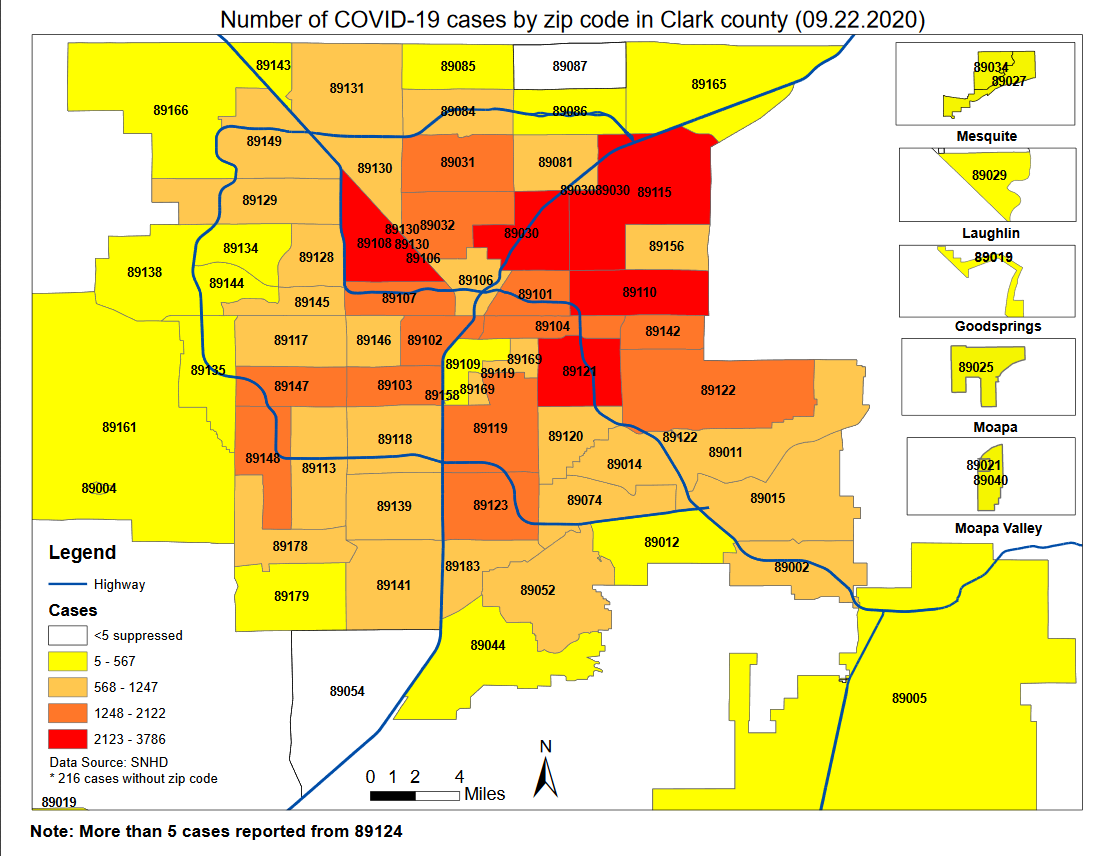
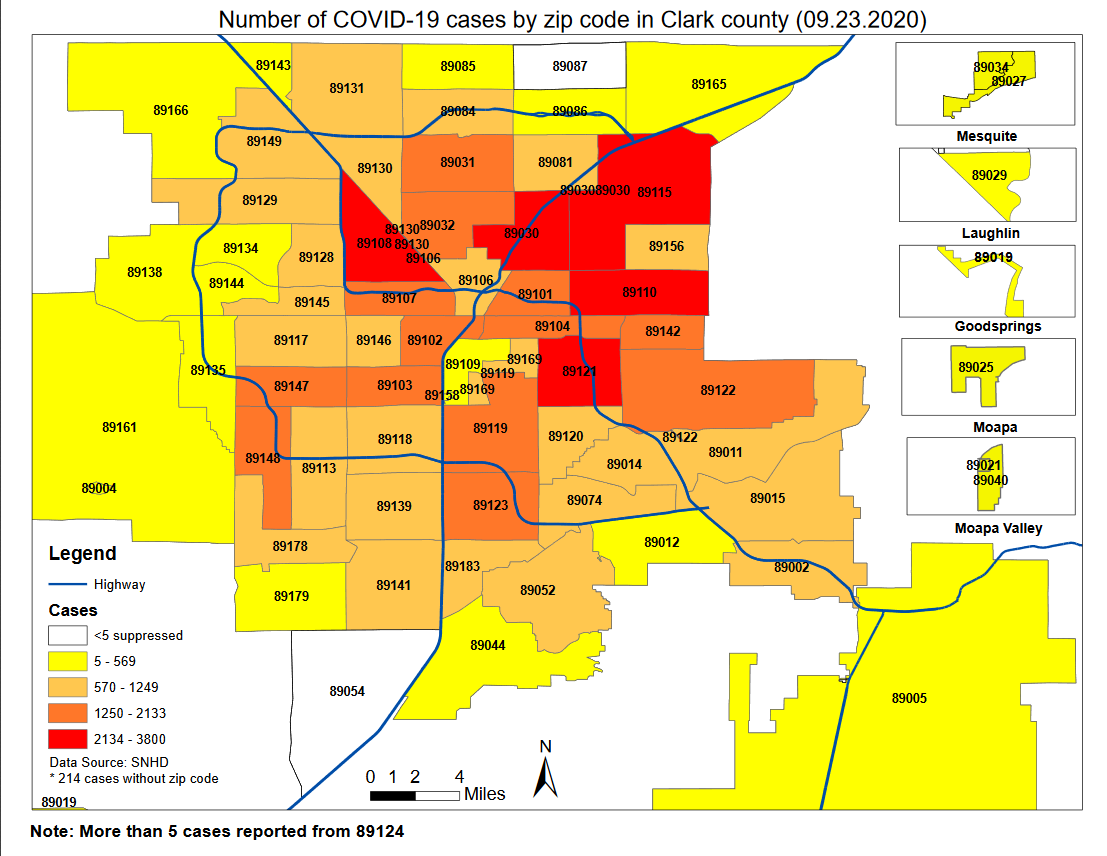
Day 204

diff --git a/src/pages/clarkcounty.js b/src/pages/clarkcounty.js
@@ -220,6 +220,7 @@ class ClarkPage extends Component {
 				'9/20/20',
 				'9/21/20',
 				'9/22/20',
+				'9/23/20',
 			],
 			datasets: [
 				{
@@ -429,6 +430,7 @@ class ClarkPage extends Component {
 						64288,
 						64470,
 						64895,
+						65174,
 					],
 				},
 			],
@@ -639,6 +641,7 @@ class ClarkPage extends Component {
 				'9/20/20',
 				'9/21/20',
 				'9/22/20',
+				'9/23/20',
 			],
 			datasets: [
 				{
@@ -848,6 +851,7 @@ class ClarkPage extends Component {
 						128,
 						182,
 						425,
+						279,
 					],
 				},
 			],
@@ -1038,6 +1042,7 @@ class ClarkPage extends Component {
 				'9/20/20',
 				'9/21/20',
 				'9/22/20',
+				'9/23/20',
 			],
 			datasets: [
 				{
@@ -1227,6 +1232,7 @@ class ClarkPage extends Component {
 						5934,
 						6018,
 						6071,
+						6125,
 					],
 				},
 			],
@@ -1416,6 +1422,7 @@ class ClarkPage extends Component {
 				'9/20/20',
 				'9/21/20',
 				'9/22/20',
+				'9/23/20',
 			],
 			datasets: [
 				{
@@ -1605,6 +1612,7 @@ class ClarkPage extends Component {
 						13,
 						84,
 						53,
+						54,
 					],
 				},
 			],
@@ -1815,6 +1823,7 @@ class ClarkPage extends Component {
 				'9/20/20',
 				'9/21/20',
 				'9/22/20',
+				'9/23/20',
 			],
 			datasets: [
 				{
@@ -2023,6 +2032,7 @@ class ClarkPage extends Component {
 						1328,
 						1343,
 						1353,
+						1360,
 					],
 					backgroundColor: 'maroon',
 				},
@@ -2222,6 +2232,7 @@ class ClarkPage extends Component {
 				'9/20/20',
 				'9/21/20',
 				'9/22/20',
+				'9/23/20',
 			],
 			datasets: [
 				{
@@ -2419,6 +2430,7 @@ class ClarkPage extends Component {
 						-1,
 						15,
 						10,
+						7,
 					],
 				},
 			],
@@ -2629,6 +2641,7 @@ class ClarkPage extends Component {
 				'9/20/20',
 				'9/21/20',
 				'9/22/20',
+				'9/23/20',
 			],
 			datasets: [
 				{
@@ -2830,13 +2843,14 @@ class ClarkPage extends Component {
 						7.5,
 						7.6,
 						7.8,
-						7.4,
+						7.5,
 						7.3,
 						7.3,
 						7.2,
 						7.1,
-						7.2,
+						7.3,
 						7.5,
+						7.9,
 						null,
 						null,
 						null,
@@ -2915,6 +2929,7 @@ class ClarkPage extends Component {
 						null,
 						null,
 						null,
+						6.9,
 						6.9,
 						6.9,
 						6.9,
@@ -3265,6 +3280,7 @@ class ClarkPage extends Component {
 						3.9,
 						3.9,
 						3.9,
+						3.9,
 					],
 				},
 			],
@@ -3275,7 +3291,7 @@ class ClarkPage extends Component {
 			datasets: [
 				{
 					label: 'Age of Cases',
-					data: [1342, 5052, 8341, 31029, 12552, 6563],
+					data: [1346, 5069, 8369, 31183, 12612, 6579],
 					backgroundColor: [
 						'rgb(54, 162, 235)', //blue
 						'rgb(255, 99, 132)', //salmon
@@ -3293,7 +3309,7 @@ class ClarkPage extends Component {
 			datasets: [
 				{
 					label: 'Sex',
-					data: [33195, 31327, 373],
+					data: [33354, 31450, 370],
 					backgroundColor: [
 						'rgb(255, 99, 132)',
 						'rgb(54, 162, 235)',
@@ -3335,8 +3351,8 @@ class ClarkPage extends Component {
 											</div>
 										</div>
 										<div className='card-value pt-4'>
-											<h1>64,895</h1>
-											<h2 className='is_salmon'>+ 425</h2>
+											<h1>65,174</h1>
+											<h2 className='is_salmon'>+ 279</h2>
 										</div>
 									</div>
 								</div>
@@ -3348,8 +3364,8 @@ class ClarkPage extends Component {
 											</div>
 										</div>
 										<div className='card-value pt-4'>
-											<h1>6,071</h1>
-											<h2 className='is_salmon'>+ 53</h2>
+											<h1>6,125</h1>
+											<h2 className='is_salmon'>+ 54</h2>
 										</div>
 									</div>
 								</div>
@@ -3362,7 +3378,7 @@ class ClarkPage extends Component {
 										</div>
 										<div className='card-value pt-4'>
 											<h1>92.5%</h1>
-											<h2 className='is_salmon'>- 0.2%</h2>
+											<h2 className='is_salmon'>- 0.0%</h2>
 										</div>
 									</div>
 								</div>
@@ -3374,8 +3390,8 @@ class ClarkPage extends Component {
 											</div>
 										</div>
 										<div className='card-value pt-4'>
-											<h1>1,353</h1>
-											<h2 className='is_salmon'>+ 10</h2>
+											<h1>1,360</h1>
+											<h2 className='is_salmon'>+ 7</h2>
 										</div>
 									</div>
 								</div>

diff --git a/src/pages/nevada.js b/src/pages/nevada.js
@@ -218,6 +218,7 @@ class NevadaPage extends Component {
 				'9/20/20',
 				'9/21/20',
 				'9/22/20',
+				'9/23/20',
 			],
 			datasets: [
 				{
@@ -426,6 +427,7 @@ class NevadaPage extends Component {
 						76036,
 						76298,
 						76807,
+						77197,
 					],
 					fill: false, // Don't fill area under the line
 					backgroundColor: '#933A16', // Line color
@@ -637,6 +639,7 @@ class NevadaPage extends Component {
 				'9/20/20',
 				'9/21/20',
 				'9/22/20',
+				'9/23/20',
 			],
 			datasets: [
 				{
@@ -846,6 +849,7 @@ class NevadaPage extends Component {
 						232,
 						262,
 						509,
+						390,
 					],
 					fill: false, // Don't fill area under the line
 					backgroundColor: '#933A16', // Bar color
@@ -1057,6 +1061,7 @@ class NevadaPage extends Component {
 				'9/20/20',
 				'9/21/20',
 				'9/22/20',
+				'9/23/20',
 			],
 			datasets: [
 				{
@@ -1265,6 +1270,7 @@ class NevadaPage extends Component {
 						1551,
 						1554,
 						1555,
+						1556,
 					],
 					backgroundColor: 'maroon',
 				},
@@ -1464,6 +1470,7 @@ class NevadaPage extends Component {
 				'9/20/20',
 				'9/21/20',
 				'9/22/20',
+				'9/23/20',
 			],
 			datasets: [
 				{
@@ -1660,6 +1667,7 @@ class NevadaPage extends Component {
 						2,
 						5,
 						3,
+						1,
 						1,
 					],
 				},
@@ -1871,6 +1879,7 @@ class NevadaPage extends Component {
 				'9/20/20',
 				'9/21/20',
 				'9/22/20',
+				'9/23/20',
 			],
 			datasets: [
 				{
@@ -2080,7 +2089,8 @@ class NevadaPage extends Component {
 						10.0,
 						10.0,
 						10.0,
-						10.0,
+						9.9,
+						9.9,
 						null,
 					],
 				},
@@ -2281,17 +2291,18 @@ class NevadaPage extends Component {
 						6.6,
 						6.7,
 						6.7,
-						6.7,
+						6.8,
 						7.0,
-						6.8,
 						6.9,
-						6.8,
+						6.9,
+						6.9,
 						6.6,
 						6.6,
+						6.7,
 						6.9,
-						7.1,
-						7.5,
 						7.3,
+						7.3,
+						7.4,
 						null,
 					],
 				},
@@ -2369,6 +2380,7 @@ class NevadaPage extends Component {
 						null,
 						null,
 						null,
+						11.0,
 						11.0,
 						11.0,
 						11.0,
@@ -2717,6 +2729,7 @@ class NevadaPage extends Component {
 						6.1,
 						6.1,
 						6.1,
+						6.1,
 					],
 				},
 			],
@@ -2752,8 +2765,8 @@ class NevadaPage extends Component {
 										</div>
 									</div>
 									<div className='card-value pt-4'>
-										<h1>670,908</h1>
-										<h2 className='is_salmon'>+ 2,644</h2>
+										<h1>674,482</h1>
+										<h2 className='is_salmon'>+ 3,874</h2>
 									</div>
 								</div>
 							</div>
@@ -2765,8 +2778,8 @@ class NevadaPage extends Component {
 										</div>
 									</div>
 									<div className='card-value pt-4'>
-										<h1>595,117</h1>
-										<h2 className='is_salmon'>+ 2,341</h2>
+										<h1>598,291</h1>
+										<h2 className='is_salmon'>+ 3,174</h2>
 									</div>
 								</div>
 							</div>
@@ -2778,8 +2791,8 @@ class NevadaPage extends Component {
 										</div>
 									</div>
 									<div className='card-value pt-4'>
-										<h1>76,807</h1>
-										<h2 className='is_salmon'>+ 509</h2>
+										<h1>77,197</h1>
+										<h2 className='is_salmon'>+ 390</h2>
 									</div>
 								</div>
 							</div>
@@ -2791,8 +2804,8 @@ class NevadaPage extends Component {
 										</div>
 									</div>
 									<div className='card-value pt-4'>
-										<h1>1,555</h1>
-										<h2 className='is_salmon'>+ 10</h2>
+										<h1>1,556</h1>
+										<h2 className='is_salmon'>+ 8</h2>
 									</div>
 								</div>
 							</div>
